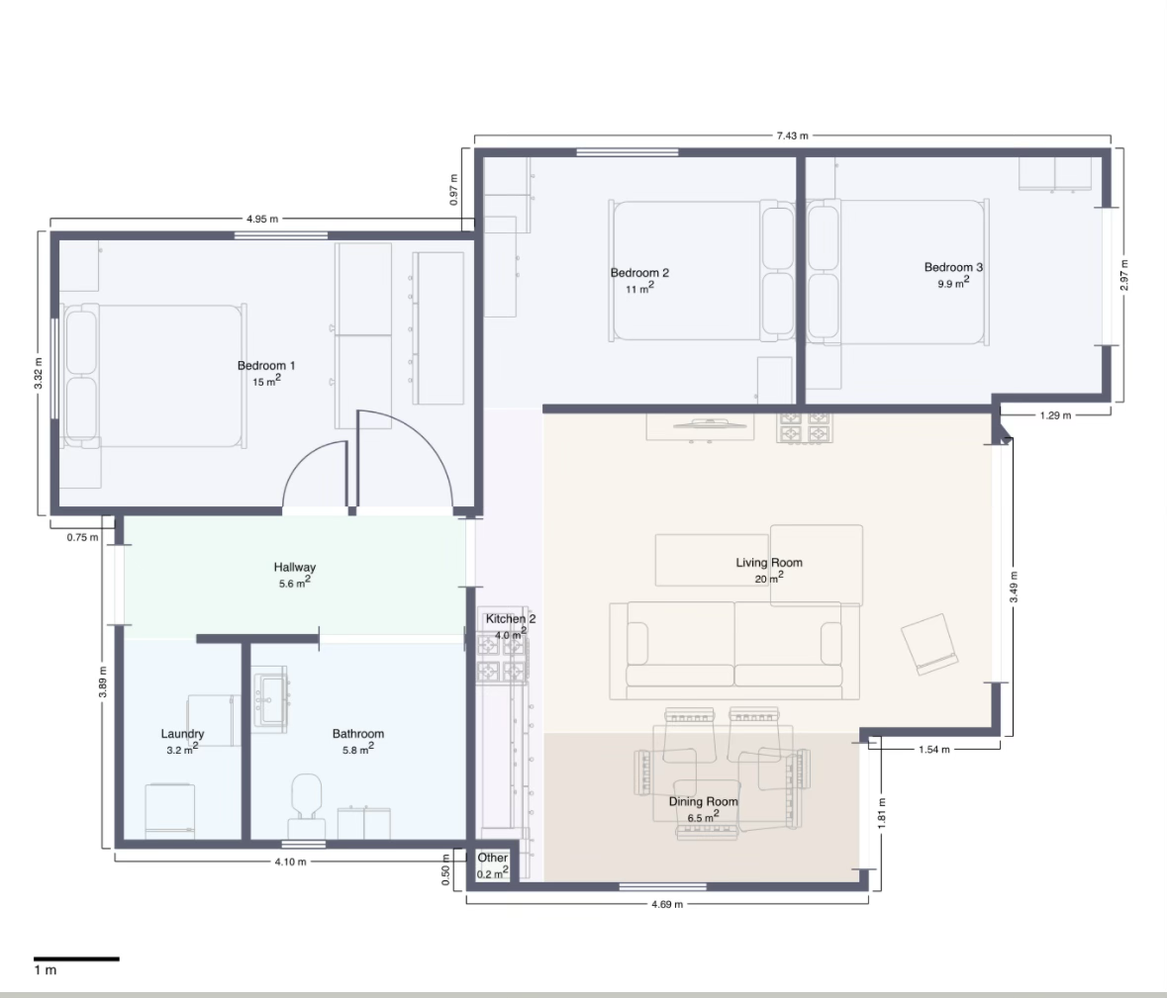
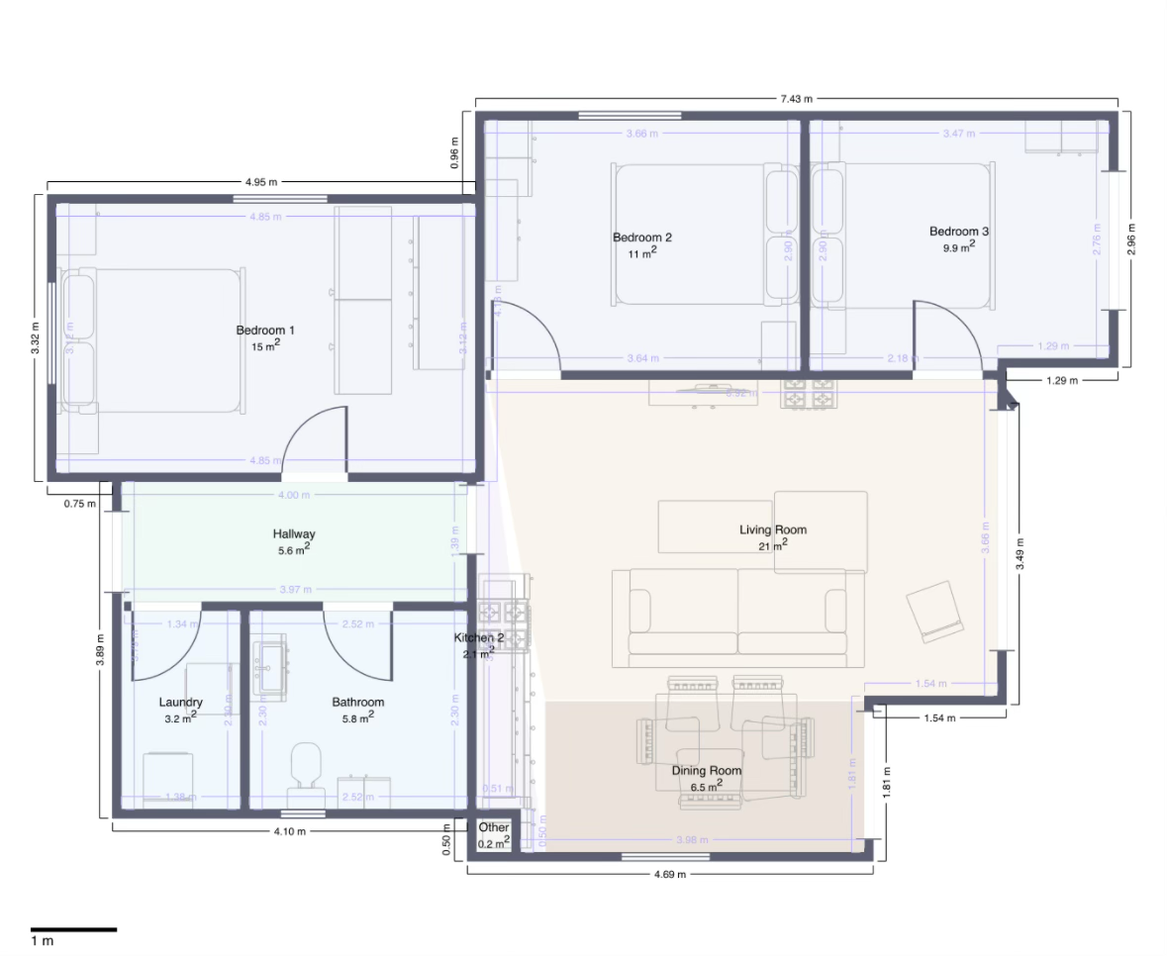
feat: refine villa motion and update floor plan

diff --git a/site/src/App.tsx b/site/src/App.tsx
@@ -8,6 +8,8 @@ import { ContactDialog } from './components/ContactDialog';
 import { Modal } from './components/Modal';
 import { copy, villa, type Language } from './data/villa';
 import { photos } from './data/photos';
+import { useLuxuryMotion } from './hooks/useLuxuryMotion';
+import './motion.css';
 
 const navTargets = ['villa', 'gallery', 'experience', 'contact'];
 const amenitiesIcons = [SwimmingPool, CookingPot, Fire, Car, WifiHigh, Snowflake];
@@ -17,6 +19,7 @@ function initialLanguage(): Language {
   try { return localStorage.getItem('drina-language') === 'en' ? 'en' : 'sr'; } catch { return 'sr'; }
 }
 export function App() {
+  useLuxuryMotion();
   const [lang, setLang] = useState<Language>(initialLanguage);
   const [menu, setMenu] = useState(false);
   const menuButton = useRef<HTMLButtonElement>(null);
@@ -46,16 +49,16 @@ export function App() {
         <div className="header-actions"><div className="languages" aria-label={t.languageLabel}>{(['sr','en'] as const).map(l=><button key={l} lang={l==='sr'?'sr-Latn':'en'} aria-label={l==='sr'?'Srpski':'English'} aria-pressed={lang===l} onClick={()=>setLang(l)}>{l.toUpperCase()}</button>)}</div><a className="header-booking" href={villa.contacts.booking} target="_blank" rel="noopener noreferrer">Booking <ArrowUpRight size={16} aria-hidden="true"/></a><button ref={menuButton} className="menu-toggle" aria-label={menu?t.closeMenu:t.menu} aria-expanded={menu} aria-controls="mobile-nav" onClick={()=>setMenu(!menu)}>{menu?<X size={25}/>:<List size={25}/>}</button></div>
       </header>
       {menu && <nav id="mobile-nav" className="mobile-nav" aria-label={lang==='sr'?'Mobilna navigacija':'Mobile navigation'}>{t.nav.map((label,i)=><a key={label} href={`#${navTargets[i]}`} onClick={()=>setMenu(false)}>{label}<ArrowUpRight size={20}/></a>)}</nav>}
-      <div className="hero-copy container"><p className="eyebrow light">{t.eyebrow}</p><h1 id="hero-title">{t.hero1}<br/><em>{t.hero2}</em></h1><p className="hero-description">{t.heroText}</p><div className="hero-buttons">{booking('button button-cream')}<a className="hero-secondary" href="#villa">{t.explore}<ArrowRight size={18} aria-hidden="true" /></a></div></div>
+      <div className="hero-copy container"><p className="eyebrow light">{t.eyebrow}</p><h1 id="hero-title" data-reveal>{t.hero1}<br/><em>{t.hero2}</em></h1><p className="hero-description" data-reveal data-reveal-delay="120">{t.heroText}</p><div className="hero-buttons">{booking('button button-cream')}<a className="hero-secondary" href="#villa">{t.explore}<ArrowRight size={18} aria-hidden="true" /></a></div></div>
       <div className="hero-bottom container"><a href="#main"><ArrowDown size={16} aria-hidden="true"/>{t.scroll}</a><span>{t.heroNote}</span></div>
     </section>
     <main id="main">
-      <section className="intro container section-space" aria-labelledby="intro-title"><div className="intro-copy"><p className="eyebrow">{t.introLabel}</p><h2 id="intro-title">{t.intro1}<br/><em>{t.intro2}</em></h2><p className="body-copy">{t.introText}</p><a className="text-link" href="#villa">{t.explore}<ArrowRight size={19} aria-hidden="true"/></a></div><figure className="intro-image"><img src="/images/river-sunset.webp" alt={lang==='sr'?'Zalazak sunca iznad Drine':'Sunset over the Drina river'} width="1600" height="1067" loading="lazy"/><figcaption>{t.riverCaption}</figcaption></figure></section>
-      <section id="villa" className="villa-section container" aria-labelledby="villa-title"><div className="villa-image"><img src="/images/villa.webp" alt={lang==='sr'?'Vila Drina Lux i privatni bazen':'Drina Lux villa and private pool'} width="1600" height="1067" loading="lazy"/><span className="image-tag">DRINA LUX</span><a href="#gallery" className="image-gallery-link" aria-label={t.photos}><ArrowUpRight size={24}/></a></div><div className="villa-copy"><p className="eyebrow">{t.villaLabel}</p><h2 id="villa-title">Drina Lux</h2><p className="body-copy">{t.villaText}</p><div className="facts">{[Bed,Bathtub,SwimmingPool,Waves].map((Icon,i)=><div key={i}><Icon size={29} weight="light" aria-hidden="true"/><span>{i<2?<b>{i===0?'3':'1'} </b>:null}{t.facts[i]}</span></div>)}</div><a className="button button-dark" href="#gallery">{t.photos}<ArrowRight size={18} aria-hidden="true"/></a></div></section>
-      <section id="gallery" className="gallery-section container section-space" aria-labelledby="gallery-title"><div className="section-heading"><div><p className="eyebrow">{t.galleryLabel}</p><h2 id="gallery-title">{t.galleryTitle}</h2></div><p>{t.galleryText}</p></div><Gallery lang={lang} photos={photos}/></section>
-      <section className="layout-section" id="layout" aria-labelledby="layout-title"><div className="container layout-grid"><div className="layout-copy"><p className="eyebrow">{t.layoutLabel}</p><h2 id="layout-title">{t.layoutTitle}</h2><p className="body-copy">{t.layoutText}</p><div className="room-list">{villa.rooms.map((room,i)=><div key={i}><span>{room.name[lang]}{i<3?` ${i+1}`:''}</span><span>{room.area}</span></div>)}</div><p className="layout-note">{t.layoutNote}</p></div><button className="floor-plan" onClick={()=>setFloor(true)} aria-label={t.layoutAction}><img src="/images/floor-plan.png" alt={t.layoutAlt} width="1179" height="1009" loading="lazy"/><span>{t.layoutAction}<Plus size={18} aria-hidden="true"/></span></button></div></section>
-      <section id="experience" className="experience container section-space" aria-labelledby="experience-title"><p className="eyebrow">{t.experienceLabel}</p><h2 id="experience-title">{t.experienceTitle}</h2><div className="experience-grid">{['pool','bbq','river-sunset'].map((image,i)=><article key={image}><img src={`/images/${image}.webp`} alt={t.experiences[i].text} loading="lazy" width="1000" height="1200"/><h3>{t.experiences[i].title}</h3><p>{t.experiences[i].text}</p></article>)}</div><div className="amenities"><h3>{t.amenitiesTitle}</h3><div className="amenities-grid">{t.amenities.map((label,i)=>{const Icon=amenitiesIcons[i];return <div key={label}><Icon size={28} weight="light" aria-hidden="true"/><span>{label}</span></div>})}</div></div></section>
-      <section className="location container" aria-labelledby="location-title"><div className="location-image"><img src="/images/river.webp" alt={lang==='sr'?'Pogled na Drinu sa obale':'View of the Drina from the riverbank'} loading="lazy" width="1600" height="1067"/></div><div className="location-copy"><p className="eyebrow">{t.locationLabel}</p><h2 id="location-title">{t.locationTitle}</h2><p className="body-copy">{t.locationText}</p><a className="text-link" href={villa.map} target="_blank" rel="noopener noreferrer">{t.map}<ArrowUpRight size={18} aria-hidden="true"/></a></div></section>
+      <section className="intro container section-space" aria-labelledby="intro-title"><div className="intro-copy" data-reveal><p className="eyebrow">{t.introLabel}</p><h2 id="intro-title">{t.intro1}<br/><em>{t.intro2}</em></h2><p className="body-copy">{t.introText}</p><a className="text-link" href="#villa">{t.explore}<ArrowRight size={19} aria-hidden="true"/></a></div><figure className="intro-image" data-reveal><img src="/images/river-sunset.webp" alt={lang==='sr'?'Zalazak sunca iznad Drine':'Sunset over the Drina river'} width="1600" height="1067" loading="lazy"/><figcaption>{t.riverCaption}</figcaption></figure></section>
+      <section id="villa" className="villa-section container" aria-labelledby="villa-title"><div className="villa-image"><img src="/images/villa.webp" alt={lang==='sr'?'Vila Drina Lux i privatni bazen':'Drina Lux villa and private pool'} width="1600" height="1067" loading="lazy"/><span className="image-tag">DRINA LUX</span><a href="#gallery" className="image-gallery-link" aria-label={t.photos}><ArrowUpRight size={24}/></a></div><div className="villa-copy" data-reveal><p className="eyebrow">{t.villaLabel}</p><h2 id="villa-title">Drina Lux</h2><p className="body-copy">{t.villaText}</p><div className="facts">{[Bed,Bathtub,SwimmingPool,Waves].map((Icon,i)=><div key={i}><Icon size={29} weight="light" aria-hidden="true"/><span>{i<2?<b>{i===0?'3':'1'} </b>:null}{t.facts[i]}</span></div>)}</div><a className="button button-dark" href="#gallery">{t.photos}<ArrowRight size={18} aria-hidden="true"/></a></div></section>
+      <section id="gallery" className="gallery-section container section-space" aria-labelledby="gallery-title"><div className="section-heading" data-reveal><div><p className="eyebrow">{t.galleryLabel}</p><h2 id="gallery-title">{t.galleryTitle}</h2></div><p>{t.galleryText}</p></div><Gallery lang={lang} photos={photos}/></section>
+      <section className="layout-section" id="layout" aria-labelledby="layout-title"><div className="container layout-grid"><div className="layout-copy" data-reveal><p className="eyebrow">{t.layoutLabel}</p><h2 id="layout-title">{t.layoutTitle}</h2><p className="body-copy">{t.layoutText}</p><div className="room-list">{villa.rooms.map((room,i)=><div key={i}><span>{room.name[lang]}{i<3?` ${i+1}`:''}</span><span>{room.area}</span></div>)}</div><p className="layout-note">{t.layoutNote}</p></div><button className="floor-plan" onClick={()=>setFloor(true)} aria-label={t.layoutAction}><img src="/images/floor-plan.png" alt={t.layoutAlt} width="1179" height="966" loading="lazy"/><span>{t.layoutAction}<Plus size={18} aria-hidden="true"/></span></button></div></section>
+      <section id="experience" className="experience container section-space" aria-labelledby="experience-title"><p className="eyebrow">{t.experienceLabel}</p><h2 id="experience-title">{t.experienceTitle}</h2><div className="experience-grid">{['pool','bbq','river-sunset'].map((image,i)=><article key={image} data-reveal data-reveal-delay={i*90}><img src={`/images/${image}.webp`} alt={t.experiences[i].text} loading="lazy" width="1000" height="1200"/><h3>{t.experiences[i].title}</h3><p>{t.experiences[i].text}</p></article>)}</div><div className="amenities"><h3>{t.amenitiesTitle}</h3><div className="amenities-grid">{t.amenities.map((label,i)=>{const Icon=amenitiesIcons[i];return <div key={label}><Icon size={28} weight="light" aria-hidden="true"/><span>{label}</span></div>})}</div></div></section>
+      <section className="location container" aria-labelledby="location-title"><div className="location-image"><img src="/images/river.webp" alt={lang==='sr'?'Pogled na Drinu sa obale':'View of the Drina from the riverbank'} loading="lazy" width="1600" height="1067"/></div><div className="location-copy" data-reveal><p className="eyebrow">{t.locationLabel}</p><h2 id="location-title">{t.locationTitle}</h2><p className="body-copy">{t.locationText}</p><a className="text-link" href={villa.map} target="_blank" rel="noopener noreferrer">{t.map}<ArrowUpRight size={18} aria-hidden="true"/></a></div></section>
       <section id="contact" className="booking-section" aria-labelledby="booking-title"><img src="/images/river-sunset.webp" alt="" loading="lazy" width="1600" height="1067"/><div className="booking-shade"/><div className="container booking-content"><p className="eyebrow light">{t.bookingLabel}</p><h2 id="booking-title">{t.bookingTitle}</h2><p>{t.bookingText}</p><div className="booking-actions">{booking('button button-cream')}<button className="button button-outline" onClick={()=>setContact(true)}>{t.contact}<ArrowRight size={18} aria-hidden="true"/></button></div></div></section>
     </main>
     <footer className="footer container"><a href="#" className="brand"><span>DRINA LUX</span><small>{t.footer}</small></a><p>Šor, Loznica · {lang==='sr'?'Srbija':'Serbia'}</p><span>© {new Date().getFullYear()} {t.rights}</span></footer>

diff --git a/site/src/hooks/useLuxuryMotion.ts b/site/src/hooks/useLuxuryMotion.ts
@@ -1,0 +1,143 @@
+import { useEffect } from "react";
+
+const REVEAL_SELECTOR = "[data-reveal]";
+const REVEAL_EASING = "cubic-bezier(.22,1,.36,1)";
+const revealedElements = new WeakSet<HTMLElement>();
+
+function getDelay(element: HTMLElement) {
+  const parsed = Number.parseInt(element.dataset.revealDelay ?? "0", 10);
+  return Number.isFinite(parsed) ? Math.min(Math.max(parsed, 0), 2_000) : 0;
+}
+
+/**
+ * Adds a single, progressive reveal to the existing `[data-reveal]` elements.
+ * The DOM remains fully visible when animation APIs are unavailable.
+ */
+export function useLuxuryMotion() {
+  useEffect(() => {
+    if (typeof window === "undefined" || !("IntersectionObserver" in window)) {
+      return;
+    }
+
+    const elements = Array.from(
+      document.querySelectorAll<HTMLElement>(REVEAL_SELECTOR),
+    );
+    const elementSet = new Set(elements);
+    const reducedMotion = window.matchMedia("(prefers-reduced-motion: reduce)");
+    const mobileViewport = window.matchMedia("(max-width: 600px)");
+    const activeAnimations = new Map<HTMLElement, Animation>();
+    let observer: IntersectionObserver | null = null;
+
+    const clearAnimation = (element: HTMLElement) => {
+      const animation = activeAnimations.get(element);
+      if (animation) {
+        animation.cancel();
+        activeAnimations.delete(element);
+      }
+    };
+
+    const settleElement = (element: HTMLElement) => {
+      revealedElements.add(element);
+      observer?.unobserve(element);
+      clearAnimation(element);
+    };
+
+    const animateElement = (element: HTMLElement) => {
+      if (revealedElements.has(element) || reducedMotion.matches) return;
+
+      revealedElements.add(element);
+      observer?.unobserve(element);
+
+      const mobile = mobileViewport.matches;
+      const containsLargeImage =
+        element.matches("img, figure") || element.querySelector("img") !== null;
+      try {
+        const animation = element.animate(
+          [
+            {
+              opacity: 0.3,
+              transform: `translateY(${mobile ? 8 : 14}px)`,
+              filter:
+                mobile || containsLargeImage ? "blur(0)" : "blur(3px)",
+            },
+            {
+              opacity: 1,
+              transform: "translateY(0)",
+              filter: "blur(0)",
+            },
+          ],
+          {
+            duration: mobile ? 500 : 700,
+            delay: getDelay(element),
+            easing: REVEAL_EASING,
+            fill: "both",
+          },
+        );
+
+        activeAnimations.set(element, animation);
+        animation.addEventListener(
+          "finish",
+          () => {
+            if (activeAnimations.get(element) === animation) {
+              animation.cancel();
+              activeAnimations.delete(element);
+            }
+          },
+          { once: true },
+        );
+      } catch {
+        // The base CSS keeps content visible if WAAPI cannot animate the element.
+        clearAnimation(element);
+      }
+    };
+
+    const startObserver = () => {
+      observer?.disconnect();
+      observer = new IntersectionObserver(
+        (entries) => {
+          for (const entry of entries) {
+            if (entry.isIntersecting) animateElement(entry.target as HTMLElement);
+          }
+        },
+        { rootMargin: "0px 0px -8%", threshold: 0.12 },
+      );
+
+      for (const element of elements) {
+        if (!revealedElements.has(element)) observer.observe(element);
+      }
+    };
+
+    const handleMotionPreference = () => {
+      if (reducedMotion.matches) {
+        observer?.disconnect();
+        observer = null;
+        for (const [element] of activeAnimations) clearAnimation(element);
+      } else {
+        startObserver();
+      }
+    };
+
+    const handleFocus = (event: FocusEvent) => {
+      const target = event.target;
+      if (!(target instanceof Element)) return;
+      const revealElement = target.closest<HTMLElement>(REVEAL_SELECTOR);
+      if (revealElement && elementSet.has(revealElement)) {
+        settleElement(revealElement);
+      }
+    };
+
+    document.addEventListener("focusin", handleFocus, true);
+    reducedMotion.addEventListener("change", handleMotionPreference);
+    handleMotionPreference();
+
+    return () => {
+      observer?.disconnect();
+      document.removeEventListener("focusin", handleFocus, true);
+      reducedMotion.removeEventListener("change", handleMotionPreference);
+      for (const animation of activeAnimations.values()) animation.cancel();
+      activeAnimations.clear();
+    };
+  }, []);
+}
+
+export default useLuxuryMotion;

diff --git a/site/src/motion.css b/site/src/motion.css
@@ -1,0 +1,57 @@
+.hero {
+  overflow: hidden;
+  overflow: clip;
+}
+
+.intro-image,
+.villa-image,
+.experience-grid article,
+.location-image {
+  overflow: hidden;
+  overflow: clip;
+}
+
+.button-cream {
+  border-color: #b8a383;
+}
+
+@media (prefers-reduced-motion: no-preference) {
+  .hero-image {
+    animation: luxury-hero-settle 1400ms cubic-bezier(.22, 1, .36, 1) both;
+    transform-origin: 50% 50%;
+  }
+
+  @keyframes luxury-hero-settle {
+    from {
+      transform: scale(1.025);
+    }
+
+    to {
+      transform: scale(1);
+    }
+  }
+}
+
+@media (hover: hover) and (pointer: fine) and (prefers-reduced-motion: no-preference) {
+  .intro-image img,
+  .villa-image > img,
+  .experience-grid article > img,
+  .location-image img {
+    transition: transform 700ms cubic-bezier(.22, 1, .36, 1);
+  }
+
+  .intro-image:hover img,
+  .villa-image:hover > img,
+  .experience-grid article:hover > img,
+  .location-image:hover img {
+    transform: scale(1.025);
+  }
+
+  .button svg {
+    transition: transform 250ms cubic-bezier(.22, 1, .36, 1);
+  }
+
+  .button:hover svg {
+    transform: translateX(2px);
+  }
+}

diff --git a/site/src/data/villa.ts b/site/src/data/villa.ts
@@ -8,7 +8,7 @@ export const villa = {
     { name: { sr: 'Spavaća soba', en: 'Bedroom' }, area: '15 m²' },
     { name: { sr: 'Spavaća soba', en: 'Bedroom' }, area: '11 m²' },
     { name: { sr: 'Spavaća soba', en: 'Bedroom' }, area: '9.9 m²' },
-    { name: { sr: 'Dnevni boravak', en: 'Living room' }, area: '20 m²' },
+    { name: { sr: 'Dnevni boravak', en: 'Living room' }, area: '21 m²' },
   ],
 };
 export const copy = {

diff --git a/DESIGN.md b/DESIGN.md
@@ -11,5 +11,5 @@
 - Фотографии: реальные исходники из `photo/`. Сгенерированные изображения из макетов не являются доказательством характеристик виллы.
 - Иконки: Phosphor, тонкое начертание. Основные секции: первый экран и знакомство с виллой. Галерея компактная с фильтрами и увеличением.
 - Мобильный сценарий: простое раскрывающееся меню, два действия снизу, большие области нажатия, native dialog для фото/контактов/плана, возврат фокуса и Escape.
-- Движение: только короткие переходы и плавная прокрутка; при reduced motion отключаются.
-- 21st.dev: не используется как зависимость. Два пользовательских макета достаточно точно задают направление.
+- Движение (уточнение пользователя 22 сентября): немного более премиальная подача через мягкое однократное появление выбранных блоков и спокойные hover-эффекты. Вдохновение: Blur Fade by Dillion Verma на 21st.dev. Небольшой blur только для текста/небольших блоков, без циклического мерцания, scroll-jacking, частиц и 3D. При reduced motion эффекты отключаются.
+- 21st.dev: выбран паттерн [Blur Fade](https://21st.dev/@dillionverma/components/blur-fade), оригинал Magic UI, MIT. В проекте собственная облегченная адаптация через Web Animations API и IntersectionObserver, без установки Framer Motion; исходный код компонента не копируется.

diff --git a/README.md b/README.md
@@ -40,4 +40,8 @@ npm run test:sites
 
 Подтвердить планировку и площади комнат, проверить условия проживания с владельцем, выполнить редактуру перевода носителем сербского. Сайт сейчас содержит `noindex, nofollow`: после отдельного решения о публикации настроить домен, metadata, индексацию и выполнить проверку опубликованной версии.
 
-Git инициализирован в корне, ветка `main`. Зависимости, `.env`, сборка и системные файлы исключены через `.gitignore`. Первый коммит и удаленный репозиторий пока не созданы.
+Git инициализирован в корне, ветка `main`. Зависимости, `.env`, сборка и системные файлы исключены через `.gitignore`. Базовая версия зафиксирована коммитом `7587046`. Удаленный репозиторий не настроен.
+
+## Деликатные эффекты
+
+Паттерн [Blur Fade на 21st.dev](https://21st.dev/@dillionverma/components/blur-fade) адаптирован без дополнительной библиотеки. Настройки: `site/src/hooks/useLuxuryMotion.ts` и `site/src/motion.css`. Разметка `data-reveal` отмечает блоки, `data-reveal-delay` задает задержку в миллисекундах. Кнопки бронирования и навигация доступны сразу. Системная настройка уменьшения движения отключает эффекты.

diff --git a/site/design-qa.md b/site/design-qa.md
@@ -55,3 +55,13 @@ final result: passed
 ## Следующий этап
 
 Редактура сербского носителем языка и подтверждение планировки владельцем перед публикацией. Публичный домен, индексация и аналитика не настроены; установлен noindex.
+
+## Уточнение визуального стиля, 2026-09-22
+
+- Выбран паттерн Blur Fade (Dillion Verma / Magic UI на 21st.dev); поведение адаптировано на нативных Web Animations API и IntersectionObserver без новых зависимостей.
+- В браузере наблюдались анимации появления 700 мс и начальное движение hero 1400 мс. При reduced motion: 0 активных анимаций, 0 скрытых блоков, hero animation-name: none.
+- Переключение SR → EN работает; площадь гостиной отображается как 21 м².
+- Обновленный план 1179×966 виден в диалоге; копия совпадает с исходником по SHA-256.
+- Ширины 390 и 320 px: scrollWidth равен innerWidth. В консоли нет warning/error.
+- Финальные typecheck и production build прошли. Временные настройки viewport и reduced motion сброшены.
+- Локальные снимки: qa/refinement-mobile.png, qa/refinement-floor-plan.png (не включены в Git).

diff --git a/site/CONTENT-SOURCES.md b/site/CONTENT-SOURCES.md
@@ -25,3 +25,7 @@
 ## Перед публичным запуском
 
 Согласовать план и условия с владельцем; провести редактуру SR/EN; подтвердить права на использование всех фотографий и контактных данных. Это локальное демо, `noindex` установлен.
+
+## Обновление планировки 2026-09-22
+
[1 lines of base64/hex data omitted]

diff --git a/site/AGENTS.md b/site/AGENTS.md
@@ -7,3 +7,7 @@ Before making substantial visual changes, use the Product Design plugin's `get-c
 When implementing from a selected generated mock, treat that image as the source of truth for layout, component anatomy, density, spacing, color, typography, visible content, and hierarchy.
 
 Build app UI in `src/`. Keep `.openai/hosting.json`, `worker/index.js`, `scripts/prepare-sites-build.mjs`, and `tests/sites-worker.test.mjs` intact so the same local prototype can be handed to Sites. Before a Sites handoff, run `npm run build` and `npm run test:sites`; the build must leave `dist/client/index.html`, `dist/server/index.js`, and `dist/.openai/hosting.json`.
+
+## Confirmed visual refinement, 2026-09-22
+
+The user wants a little more luxury through restrained effects. Preserve the current typography, colors and layout. Use the 21st.dev Blur Fade pattern sparingly: once-only entrances, a subtle hero settle and quiet image/button hover feedback. Respect reduced motion, never hide content permanently, and do not replay on language change or scrolling back.
